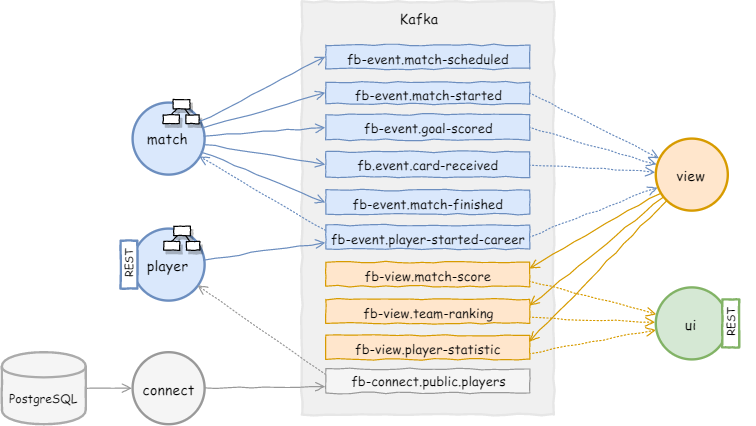
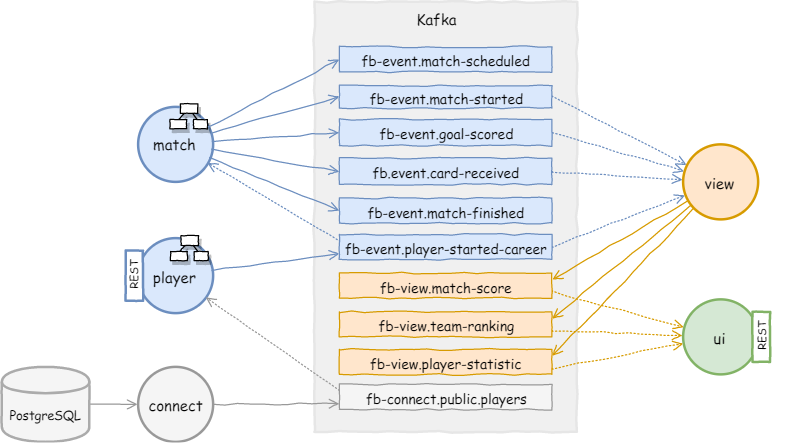
Update links and images

diff --git a/README.md b/README.md
@@ -1,4 +1,4 @@
-# Kafka Streams and Event Sourcing example
+# Event-Driven microservices with Kafka Streams
 Event-Driven microservices codebase applying the idea of [stateful streams processing] with [Kafka](https://kafka.apache.org/) and [Kafka Streams](https://kafka.apache.org/documentation/streams/). These Confluent's blog posts are a great introduction to that concept:
 - [The Data Dichotomy: Rethinking the Way We Treat Data and Services](https://www.confluent.io/blog/data-dichotomy-rethinking-the-way-we-treat-data-and-services/)
 - [Build Services on a Backbone of Events](https://www.confluent.io/blog/build-services-backbone-events/)
@@ -6,7 +6,7 @@ Event-Driven microservices codebase applying the idea of [stateful streams proce
 
 You can think of this project as a more comprehensive supplement to the basic code examples of Kafka Streams. Kafka Streams (and Kafka, of course) is used here for many purposes like aggregation, building materialized views, persisting the domain model or just exposing the output of services. Furthermore, there is no traditional database here, local state stores instead (PostgreSQL plays a role of legacy system only).
 
-So what is this application doing? It generates a simple football statistics: scores, team rankings and player statistics (number of goals scored, yellow and red cards). It should be a little more comprehensible than a typical code examples based on orders, payments etc.
+So what is this application doing? It generates a simple football statistics: scores, team rankings and player statistics (number of goals scored, yellow and red cards). It should be a little more comprehensible than a typical code examples based on orders, payments etc. 
 
 
 Microservices
@@ -14,10 +14,10 @@ Microservices
 
 ![architecture](docs/architecture.png)
 
-- __football-match__ - transforms REST requests into [Events](djarza/tree/master/football-common/src/main/java/org/djar/football/model/event)
+- __football-match__ - transforms REST requests into [Events](football-common/src/main/java/org/djar/football/model/event)
 - __connect__ - Kafka Connect service with [Debezium PostgreSQL connector](http://debezium.io/docs/connectors/postgresql/); monitors changes in the database
-- __football-player__ - receives notifications from __connect__ service and creates only a single Event [PlayerStartedCareer](djarza/football-events/blob/master/football-common/src/main/java/org/djar/football/model/event/PlayerStartedCareer.java) using [Processor API](https://kafka.apache.org/11/documentation/streams/developer-guide/processor-api.html) ([implementation](djarza/football-events/blob/master/football-player/src/main/java/org/djar/football/player/snapshot/DomainUpdater.java))
-- __football-view__ - transforms the Events into statistics using [Kafka Streams DSL](https://kafka.apache.org/11/documentation/streams/developer-guide/dsl-api.html) ([implementation](djarza/football-events/blob/master/football-view/src/main/java/org/djar/football/view/projection/StatisticsBuilder.java))
+- __football-player__ - receives notifications from __connect__ service and creates only a single Event [PlayerStartedCareer](football-common/src/main/java/org/djar/football/model/event/PlayerStartedCareer.java) using [Processor API](https://kafka.apache.org/11/documentation/streams/developer-guide/processor-api.html) ([implementation](football-player/src/main/java/org/djar/football/player/snapshot/DomainUpdater.java))
+- __football-view__ - transforms the Events into statistics using [Kafka Streams DSL](https://kafka.apache.org/11/documentation/streams/developer-guide/dsl-api.html) ([implementation](football-view/src/main/java/org/djar/football/view/projection/StatisticsBuilder.java))
 - __football-ui__ - exposes the statistics via REST API
 - __football-tests__ - integration tests
 
@@ -26,23 +26,28 @@ Kafka topics
 ------------
 ![topics](docs/topics.png)
 
+
 REST endpoints
 --------------
-- [Query interface](djarza/football-events/blob/master/football-ui/src/main/java/org/djar/football/ui/controller/StatisticsController.java)
-- [Command interface](djarza/football-events/blob/master/football-match/src/main/java/org/djar/football/match/controller/MatchController.java)
+REST controllers:
+- [Query interface](football-ui/src/main/java/org/djar/football/ui/controller/StatisticsController.java)
+- [Command interface](football-match/src/main/java/org/djar/football/match/controller/MatchController.java)
+
 
 How to run
 ----------
-- Add kafka bootstrap address to /etc/hosts:
+- Add kafka bootstrap address to your /etc/hosts:
     ```
     127.0.0.1 kafka
     127.0.0.1 postgres
     127.0.0.1 connect
     127.0.0.1 football-match
     127.0.0.1 football-player
-    127.0.0.1 football-query
+    127.0.0.1 football-view
+    127.0.0.1 football-ui
     ```
 - Run Kafka and microservices:
     ```
     docker-compose up -d
     ```
+- So far, there is no test data or data generator besides a simple [integration test](football-tests/src/test/java/org/djar/football/tests/BasicIntegrationTest.java)
